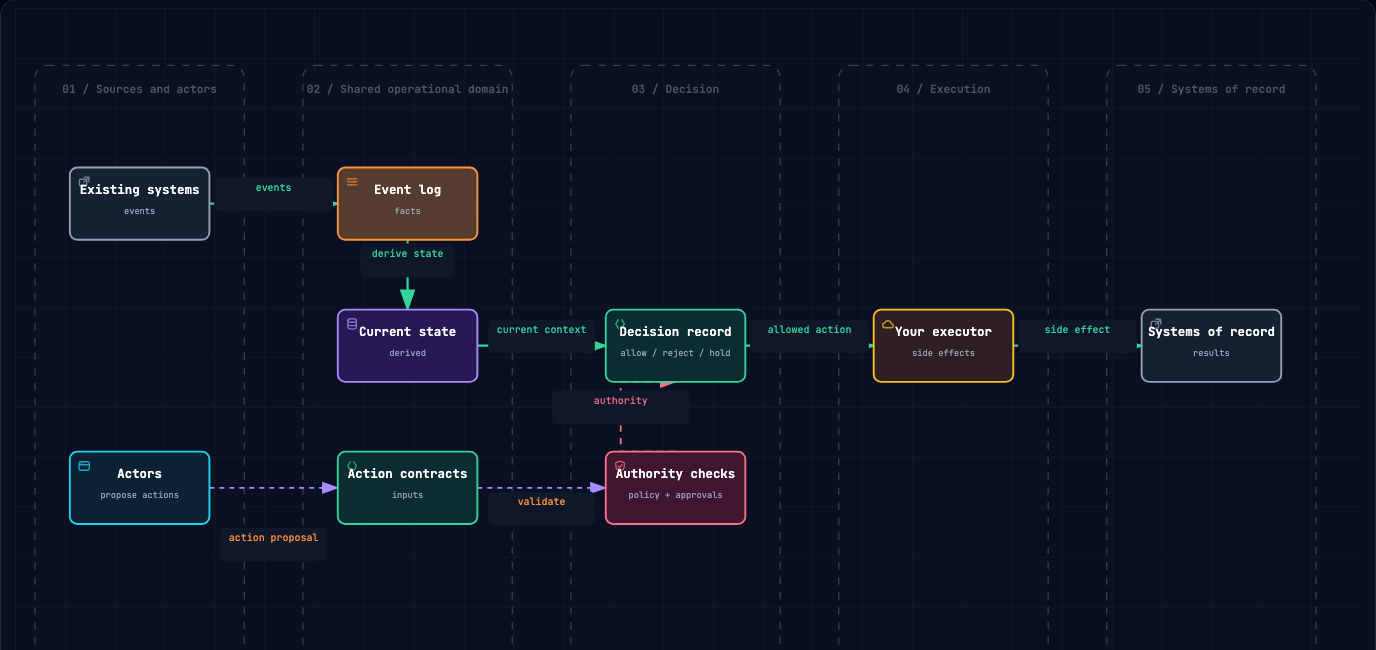
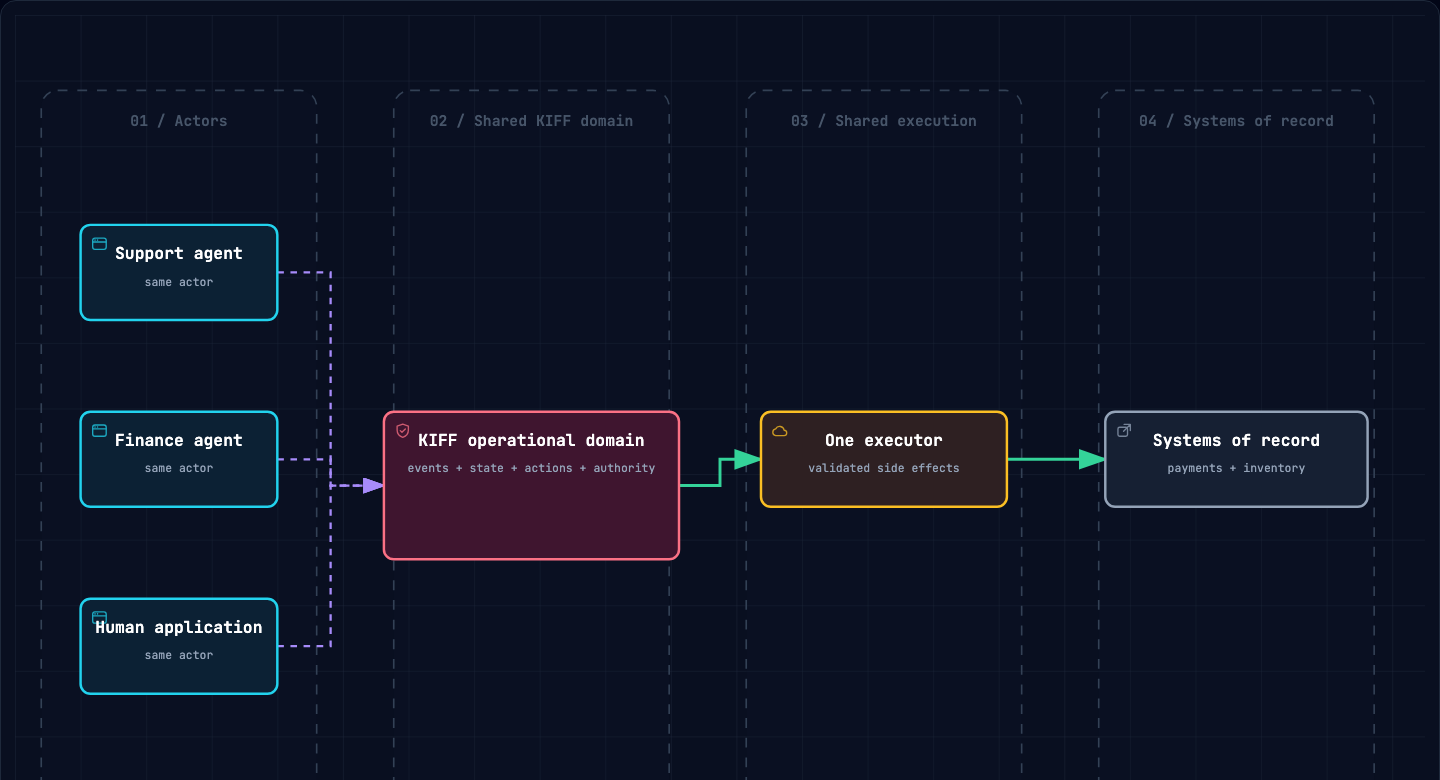
docs: clarify operational pattern comparison (#99)

diff --git a/README.md b/README.md
@@ -17,18 +17,19 @@ domain instead of each rebuilding it.
 
 The first agent is usually a feature. The next few need a system.
 
-In a conventional implementation, each new agent, application, or automation
-builds its own view of state, rules, and integrations. That works in isolation,
-then creates coordination work: decisions drift, integrations multiply, and it
-becomes harder to explain what happened.
+When three actors join the same process, the common pattern is three backend
+copies: each owns its interpretation of state, its rules, its actions, and a
+custom path into the same systems. That works in isolation, then creates
+coordination work as those copies drift and integrations multiply.
 
 ![Without a shared operational domain, each actor builds and maintains its own state, rules, and integrations.](./docs/diagrams/traditional-operational-pattern.png)
 
 ## The KIFF Pattern
 
-KIFF makes the business process explicit once. Events establish what is true;
-named actions describe what may happen; authority and approvals apply the same
-way to every actor; execution results return to the shared history.
+The actors and systems do not change. KIFF replaces the repeated domain copies
+and adapters with one operational domain and one validated execution path.
+Events establish what is true; named actions describe what may happen;
+authority and approvals apply the same way to every actor.
 
 This does not replace your agent framework, HTTP stack, queue, cron job, or
 systems of record. It gives them a shared operational foundation and evaluates

diff --git a/docs/diagrams/README.md b/docs/diagrams/README.md
@@ -12,3 +12,7 @@ node /path/to/archify/bin/archify.mjs deliver dataflow <diagram>.dataflow.json <
 
 Render the delivered HTML in a browser and export the diagram area as PNG. Do
 not edit the PNGs directly.
+
+The comparison diagrams intentionally keep relationship labels outside the PNG
+crop. Their endpoints and stage headings already name the relationship, while
+visible label pills would interrupt the converging paths.
